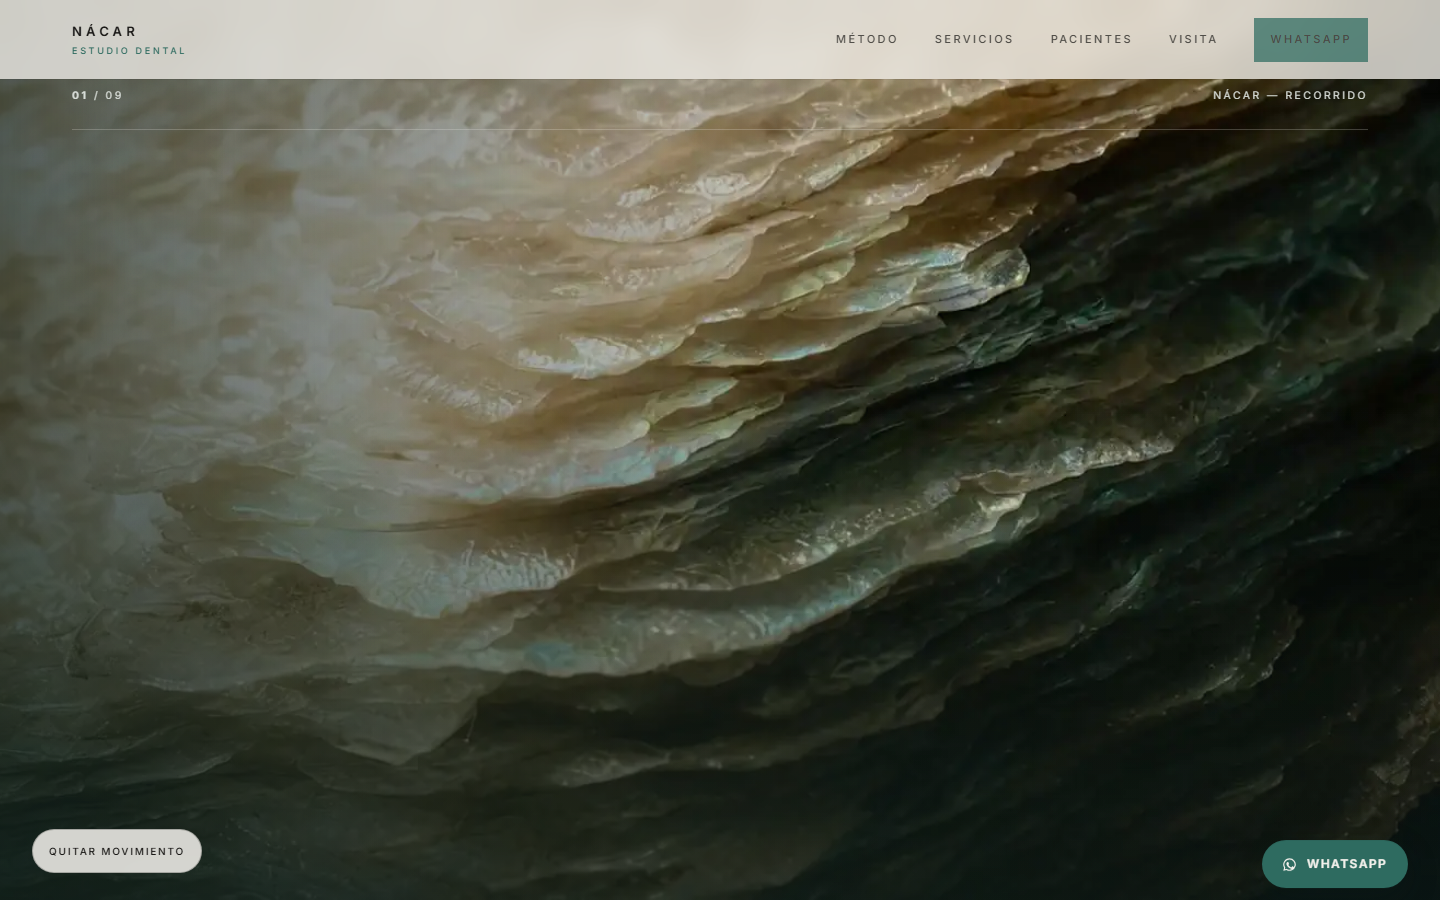
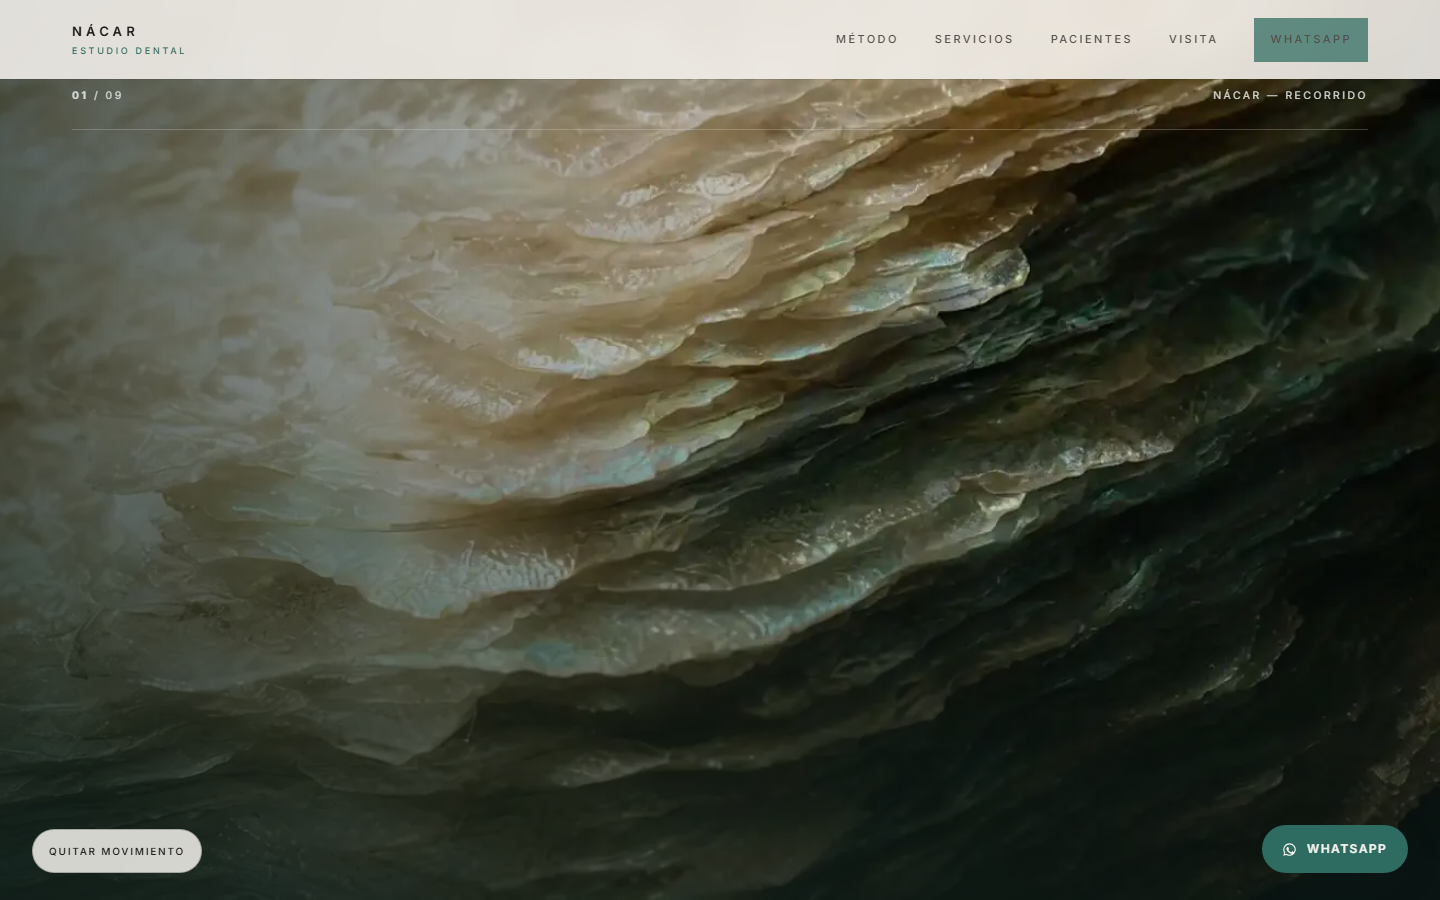
Documenta el despliegue y la verificacion de NACAR v2.3 en produccion
qa/PRODUCCION_v2.3.md con las cifras en vivo (manifest identico, Cache-Control
verificado con curl -I, QA remota aprobada en la primera pasada, entrada movil
2,461,726 B y desktop 7,523,788 B por cuerpo real, 13/13 CTA con teclado, LCP
frio 3,536 ms y mediana 1,004 ms) y docs/misiones/C26.report.md con el antes y
despues de cada reserva de R1d.

Changed region(s): [[0.875, 0.9022, 1.0, 0.9956], [0.9062, 0.0, 1.0, 0.0933]]

diff --git a/docs/misiones/C26.report.md b/docs/misiones/C26.report.md
@@ -1,0 +1,174 @@
+# C26 — NÁCAR v2.3: cierre de las reservas de R1d, despliegue y verificación
+
+Fecha: 2026-09-15
+Rama de trabajo: `v2.3/reservas-r1d-2026-09-15` (`a253143`)
+Publicado: merge `e9cc21a` en `main` · deployment Coolify `vcd31whpnhwwxb5ldpwxbl3i` (`finished`, 30 s)
+Tag de respaldo: `respaldo-main-antes-v2.3-2026-09-15` → `d8e70f7`
+Antecedente: `qa/R1/REVISION_R1d.md` — **APROBADA CON RESERVAS, 8.3 / 10**
+
+## Resultado
+
+Las cuatro reservas bloqueantes de R1d están cerradas y medidas en producción, más los dos
+deseables que el encargo pedía (CSS muerto y CTA con teclado). La QA remota aprobó **en la primera
+pasada**, sin reintentos.
+
+## Antes / después por reserva
+
+| Reserva de R1d | Antes (medido por R1d en v2.2) | Después (medido en producción, v2.3) |
+|---|---|---|
+| **1. Peso móvil fuera de presupuesto** | entrada 3,365,621 B (+34.6 % sobre 2,500,000 B); set 2,980,502 B | entrada **2,461,726 B** (cuerpo real) / **2,470,502 B** (CDP), −26.7 %; set **2,078,178 B** |
+| **1b. Desktop sobre la doctrina** | entrada 8,369,018 B (+4.6 % sobre 8,000,000 B); set 7,983,510 B | entrada **7,523,788 B**; set **7,140,240 B** |
+| **2. Puerta de bytes ciega en producción** | sumaba `content-length`: 79,661 B donde había 3,365,621 B (251 de 274 respuestas sin la cabecera con HTTP/2); `inputBytes: 0` en 9 de 12 perfiles | tamaño real de cuerpo con `response.body()`: **2,461,726 B** en los tres perfiles móviles y **7,523,788 B** en los tres de escritorio; **0 respuestas 200 sin cuerpo** en los 12 perfiles, y si alguna lo fuera la puerta falla |
+| **3. Puerta de CLS floja** | fallaba a partir de 0.25 y sólo en 2 viewports | falla a partir de **0.1** en los **6** viewports; valor medido **0.0000** en los seis |
+| **4. Contraste falseado** | forzaba `visibility/opacity/transform` y comparaba percentil 99.5 contra percentil 10 de luminancia | se navega al tramo de cada capítulo y se mide el estado real: **36/36 tarjetas con `visibility: visible` y `opacity: 1` sin forzar nada**; texto contra su fondo real: **6.57–7.36 : 1** en núcleo ancho y **8.27–8.51 : 1** en núcleo puro (umbral 4.5) |
+| **Deseable: CSS muerto** | 32 bloques `.acto/.paso/.rail` = 3,085 B (12.5 % del CSS) para 0 nodos; `arcosActo()` sin importadores | 0 coincidencias en el bundle; CSS servido **24,634 → 21,582 B (−3,052 B)**; `arcosActo()`, `muestrear()`, `cubica()` y el tipo `P` eliminados |
+| **Deseable: `/film/**` sin `Cache-Control`** | sin cabecera; dependía de la heurística de `Last-Modified` | `public, max-age=31536000, immutable` en `/film/desktop|mobile/`, `no-cache` en `/film/manifest.json`, una semana en pósters y láminas — verificado con `curl -I` en vivo |
+| **Deseable: CTA sin teclado en modo animado** | 5 de 13 enlaces `wa.me` alcanzables con Tab | **13/13 en 1440×900 y 13/13 en 390×844**, con regresión automática |
+
+## Qué se hizo, en concreto
+
+### 1. Los dos sets, recodificados de forma uniforme
+
+El set servido no era uniforme: el clip 02 estaba a WebP q44 y los clips 01, 03 y 04 arrastraban
+calidades mayores de misiones anteriores. Se re-extrajeron los 528 fotogramas desde los MP4
+fuente con **una sola receta por set**:
+
+```
+ffmpeg -i <clip>.mp4 -vf "fps=10,scale=1440:-2" -c:v libwebp -quality 44 -compression_level 6 -fps_mode passthrough   # desktop
+ffmpeg -i <clip>.mp4 -vf "fps=10,scale=720:-2"  -c:v libwebp -quality 20 -compression_level 6 -fps_mode passthrough   # móvil
+```
+
+Fuentes usadas: `assets-src/clip/clip-01.mp4`, `assets-src/clip-v2/clip-02-cand-b.mp4`,
+`clip-03.mp4` y `clip-04.mp4`. Que son exactamente las integradas se comprobó, no se supuso: una
+re-extracción de control a q40 da una diferencia media de 0.45–1.04 sobre 255 frente a los
+fotogramas del repo (ruido de compresión), y el clip 02 a q44 reproduce el set actual **byte a
+byte** (1,657,518 B).
+
+**Calibración del ancho y la calidad.** Se midieron 13 combinaciones antes de elegir:
+
+| Ancho | q40 | q38 | q36 | q34 | q30 | q28 | q26 | q22 | q20 |
+|---|---:|---:|---:|---:|---:|---:|---:|---:|---:|
+| 720 px | 2,861,452 | 2,784,468 | 2,707,740 | 2,634,382 | — | 2,393,752 | — | 2,156,318 | **2,078,178** |
+| 672 px | — | — | 2,464,890 | — | — | — | 2,102,522 | — | — |
+| 640 px | 2,455,202 | — | — | 2,255,206 | 2,117,842 | — | — | — | — |
+| 608 px | 2,302,294 | — | — | — | — | — | — | — | — |
+
+Bajar sólo la calidad a q34–q40 (lo que pedía el encargo como primer intento) **no bastaba**: el
+mínimo era 2,634,382 B, que deja la entrada en ~3.0 MB. De las tres combinaciones que sí caben
+(720 q20, 672 q26, 640 q30) se eligió **720 px q20**: conserva la resolución del set actual — el
+encargo pedía cambiar sólo la calidad — y, comparadas al tamaño al que las dibuja el canvas
+(780 px en un móvil de 390 px a DPR 2), es la que mantiene más definición en el instrumental fino
+del clip 03. En escritorio bastó con uniformar a q44.
+
+**Revisión visual a tamaño real.** 6 fotogramas de cada set (`c01-010`, `c01-055`, `c02-030`,
+`c03-040`, `c04-015`, `c04-060`), vistos a 720×412 y 1440×822 uno a uno, incluidos los más
+propensos a bloques (el degradado oscuro de `c01-055`, 2,634 B en móvil, y la pared negra de
+`c04-015`): **no aparecen bloques ni bandas en ninguno de los doce**. El único efecto visible es
+una pérdida mínima de microtextura en el nácar, indistinguible a 1:1.
+
+`film-check` sigue verde con el guardarraíl intacto: máximo interno **25.365** desktop y **25.199**
+móvil contra `0.75 × 43.109 = 32.33175`, 0 saltos absolutos y los tres cortes declarados en
+76.9 / 98.2 / 81.3. Presupuestos de `film-check.mjs` y `qa.mjs` bajados a **2,500,000 B** en móvil.
+
+### 2. Cache-Control, y por qué hizo falta versionar
+
+**Dónde vive el nginx.** La app de Coolify `nacar-dental` (`ar9athq8375g243vh3s7t49b`) tiene
+`build_pack=dockerfile` y `custom_nginx_configuration` **vacío**: la configuración que manda es el
+`nginx.conf` del repo, copiado a la imagen. No hubo que sincronizar nada por API — a diferencia del
+hub, donde sí vive en Coolify. Para que ese supuesto no se rompa en silencio,
+`scripts/c19-deploy.py` ahora lee la app antes de desplegar y **aborta** si cambia el nombre, si el
+build pack deja de ser `dockerfile` o si aparece un `custom_nginx_configuration` (que ganaría sobre
+el del repo). Respaldo fechado del script previo:
+`c19-deploy.py.respaldo-2026-09-15.bak` en el directorio temporal de la sesión; la versión anterior
+está además en `d8e70f7`.
+
+**El problema que se encontró al ponerlo.** Los 528 fotogramas tienen nombres estables entre
+versiones (`c01-001.webp`…). Marcarlos `immutable` un año significa que un visitante que ya estuvo
+aquí se quedaría con los fotogramas viejos para siempre — exactamente el fallo que esta misión
+acaba de provocar al reemplazar los 528 binarios. Por eso el manifiesto ahora publica cada
+fotograma con `?v=<sha256 de los 264 binarios del set>` (desktop `fdaffb917d`, móvil `df4c114570`)
+y `/film/manifest.json` se sirve `no-cache`. `film-check.mjs`, `qa.mjs` y
+`generate-film-contact-sheet.mjs` quitan la query al resolver la ruta en disco.
+
+### 3. Puertas honestas en `scripts/qa.mjs`
+
+- **Bytes**: `response.body().length` por respuesta, esperando todas las lecturas antes de sumar.
+  Comparado contra el presupuesto de entrada de la doctrina (2.5 MB móvil / 8 MB desktop) en los
+  seis viewports, no contra un límite suelto en dos. Además, si una respuesta 200 no entrega
+  cuerpo, la puerta falla: no se vuelve a permitir que mida a ciegas.
+- **CLS de barrido**: umbral 0.25 → **0.1**, y de 2 a 6 viewports.
+- **Contraste**: se sitúa cada capítulo en su tramo real del pin (`trigger.start/end` y el punto
+  medio de `data-from`/`data-to`), se comprueba el estado computado y se mide el recorte de la
+  etiqueta dos veces — con el glifo y con el glifo en `transparent` — promediando sólo los píxeles
+  donde el texto domina. Se publican dos lecturas: núcleo ancho (conservadora, la que decide) y
+  núcleo puro.
+- **LCP**: la primera visita del proceso se reporta tal cual como *fría* y se le exige el tope de
+  4,000 ms; el presupuesto de 2,500 ms se le pide a la **mediana de tres visitas nuevas**. Antes,
+  una sola medición fría hacía fallar la suite entera y se resolvía repitiendo la pasada, que es
+  justamente la costumbre que R1d señaló.
+
+### 4. CSS muerto
+
+Se borraron los 32 bloques `.acto*`, `.paso*` y `.rail*` de la v1 (4,638 B de fuente; **3,052 B
+menos en el CSS servido**, de 24,634 a 21,582 B) tras confirmar con `rg` que ningún HTML ni TS los
+usa y que el DOM no tiene un solo nodo con esas clases. `.boton`/`.boton--jade` se conservan: los
+usa el cierre. En `src/lib/arco.ts` salieron `arcosActo()` y, en cascada, `muestrear()`, `cubica()`
+y el tipo `P`, que sólo existían para él.
+
+### 5. CTA de capítulo alcanzables con teclado
+
+La causa era `autoAlpha` de GSAP: apaga `visibility`, y un elemento con `visibility: hidden` sale
+del orden de tabulación, así que 8 de los 9 CTA de capítulo eran inalcanzables. Ahora la timeline
+anima **`opacity`**, las tarjetas llevan `pointer-events: none` en CSS y el propio `onUpdate` las
+enciende leyendo el `opacity` **en línea** que escribe la timeline (cero lecturas de estilo
+calculado: no cuesta layout dentro del scrub). Y como enfocar texto invisible sería inútil, un
+`focusin` delegado lleva la película al tramo del capítulo enfocado, de modo que el usuario ve lo
+que tiene el foco. La regresión recorre la página con Tab en modo animado y exige 13/13.
+
+## Puertas
+
+| Puerta | Resultado |
+|---|---|
+| `npm run typecheck` | aprobado |
+| `npm run build` | aprobado (en la rama y de nuevo en `main`) |
+| `npm run film-check` | aprobado: 0 saltos ≥ 32.33175; 7,140,240 B ≤ 8,000,000 y 2,078,178 B ≤ 2,500,000 |
+| `npm run qa` (local) | aprobado, `failures: []` |
+| `QA_BASE=https://nacar.asck.tech QA_STEP_MS=600 npm run qa` | **aprobado en la primera pasada**, `failures: []`, exit 0 |
+
+Verificación en vivo completa en `qa/PRODUCCION_v2.3.md`.
+
+## Decisiones que tomé y conviene conocer
+
+1. **Re-encodé también el set de escritorio**, aunque el encargo sólo pedía "que no crezca". Estaba
+   con calidades desiguales por clip y su entrada incumplía la doctrina por 4.6 %. Uniformado a q44
+   baja a 7,140,240 B y la entrada a 7,523,788 B: presupuesto cumplido, film uniforme de punta a
+   punta y comparación 1:1 sin diferencia visible.
+2. **Versioné los fotogramas con `?v=<huella>`** en vez de poner `immutable` a secas. Sin eso, el
+   `immutable` que pedía el encargo habría congelado la secuencia anterior en cualquier navegador
+   que ya hubiera visitado el sitio.
+3. **No sincronicé nginx por API**: aquí no aplica (Coolify sin override). En su lugar dejé la
+   comprobación en el script de despliegue.
+4. **El presupuesto móvil se persiguió sobre la ENTRADA total (2.5 MB), no sobre el directorio.**
+   El encargo pedía ≤ 2.6 MB de bytes reales; con 2,461,726 B se cumple también el 2.5 MB de la
+   doctrina, que era la reserva de fondo.
+
+## Lo que queda abierto
+
+- **Arranque en frío**: 3,536 ms de LCP en la primera visita tras el despliegue (mediana de tres,
+  1,004 ms). La puerta ya lo separa y lo publica, pero el síntoma sigue.
+- Nav de escritorio a 18 px de alto con `(pointer: coarse)` entre 1024 y 1180 px.
+- Al conmutar el movimiento se pierde la posición de lectura (el documento pasa de 28,432 a
+  15,282 px).
+- Composición repetida en los nueve capítulos y par tipográfico heredado de UMBRAL.
+- Copy de los capítulos 02 y 06, radiografía literal y correo Gmail del pie: decisiones expresas de
+  Kevin, sin tocar.
+- Un fotograma pedido **sin** `?v=` también responde con `immutable`. Nada del sitio genera esas
+  URLs — el manifiesto siempre versiona — pero queda anotado por si alguien las escribe a mano.
+- `qa/R1/audit.mjs` y `qa/R1/contact-sheet.mjs` (herramientas de la revisión R1, no puertas) leen
+  las URLs del manifiesto sin quitar la query; se dejaron intactas a propósito por ser evidencia de
+  una revisión pasada.
+
+`RUBRICA_v2.md` se repuntúa en **8.6 / 10 autoasignado** partiendo de las notas de R1d, subiendo
+sólo Rendimiento (7.5 → 8.4), Craft (8.0 → 9.0) y Reduce/Accesibilidad (8.5 → 8.8), que son las
+tres categorías con cifra nueva. Quien decide si eso llega al 8.5 de entrega es la re-revisión
+independiente, no este informe.
